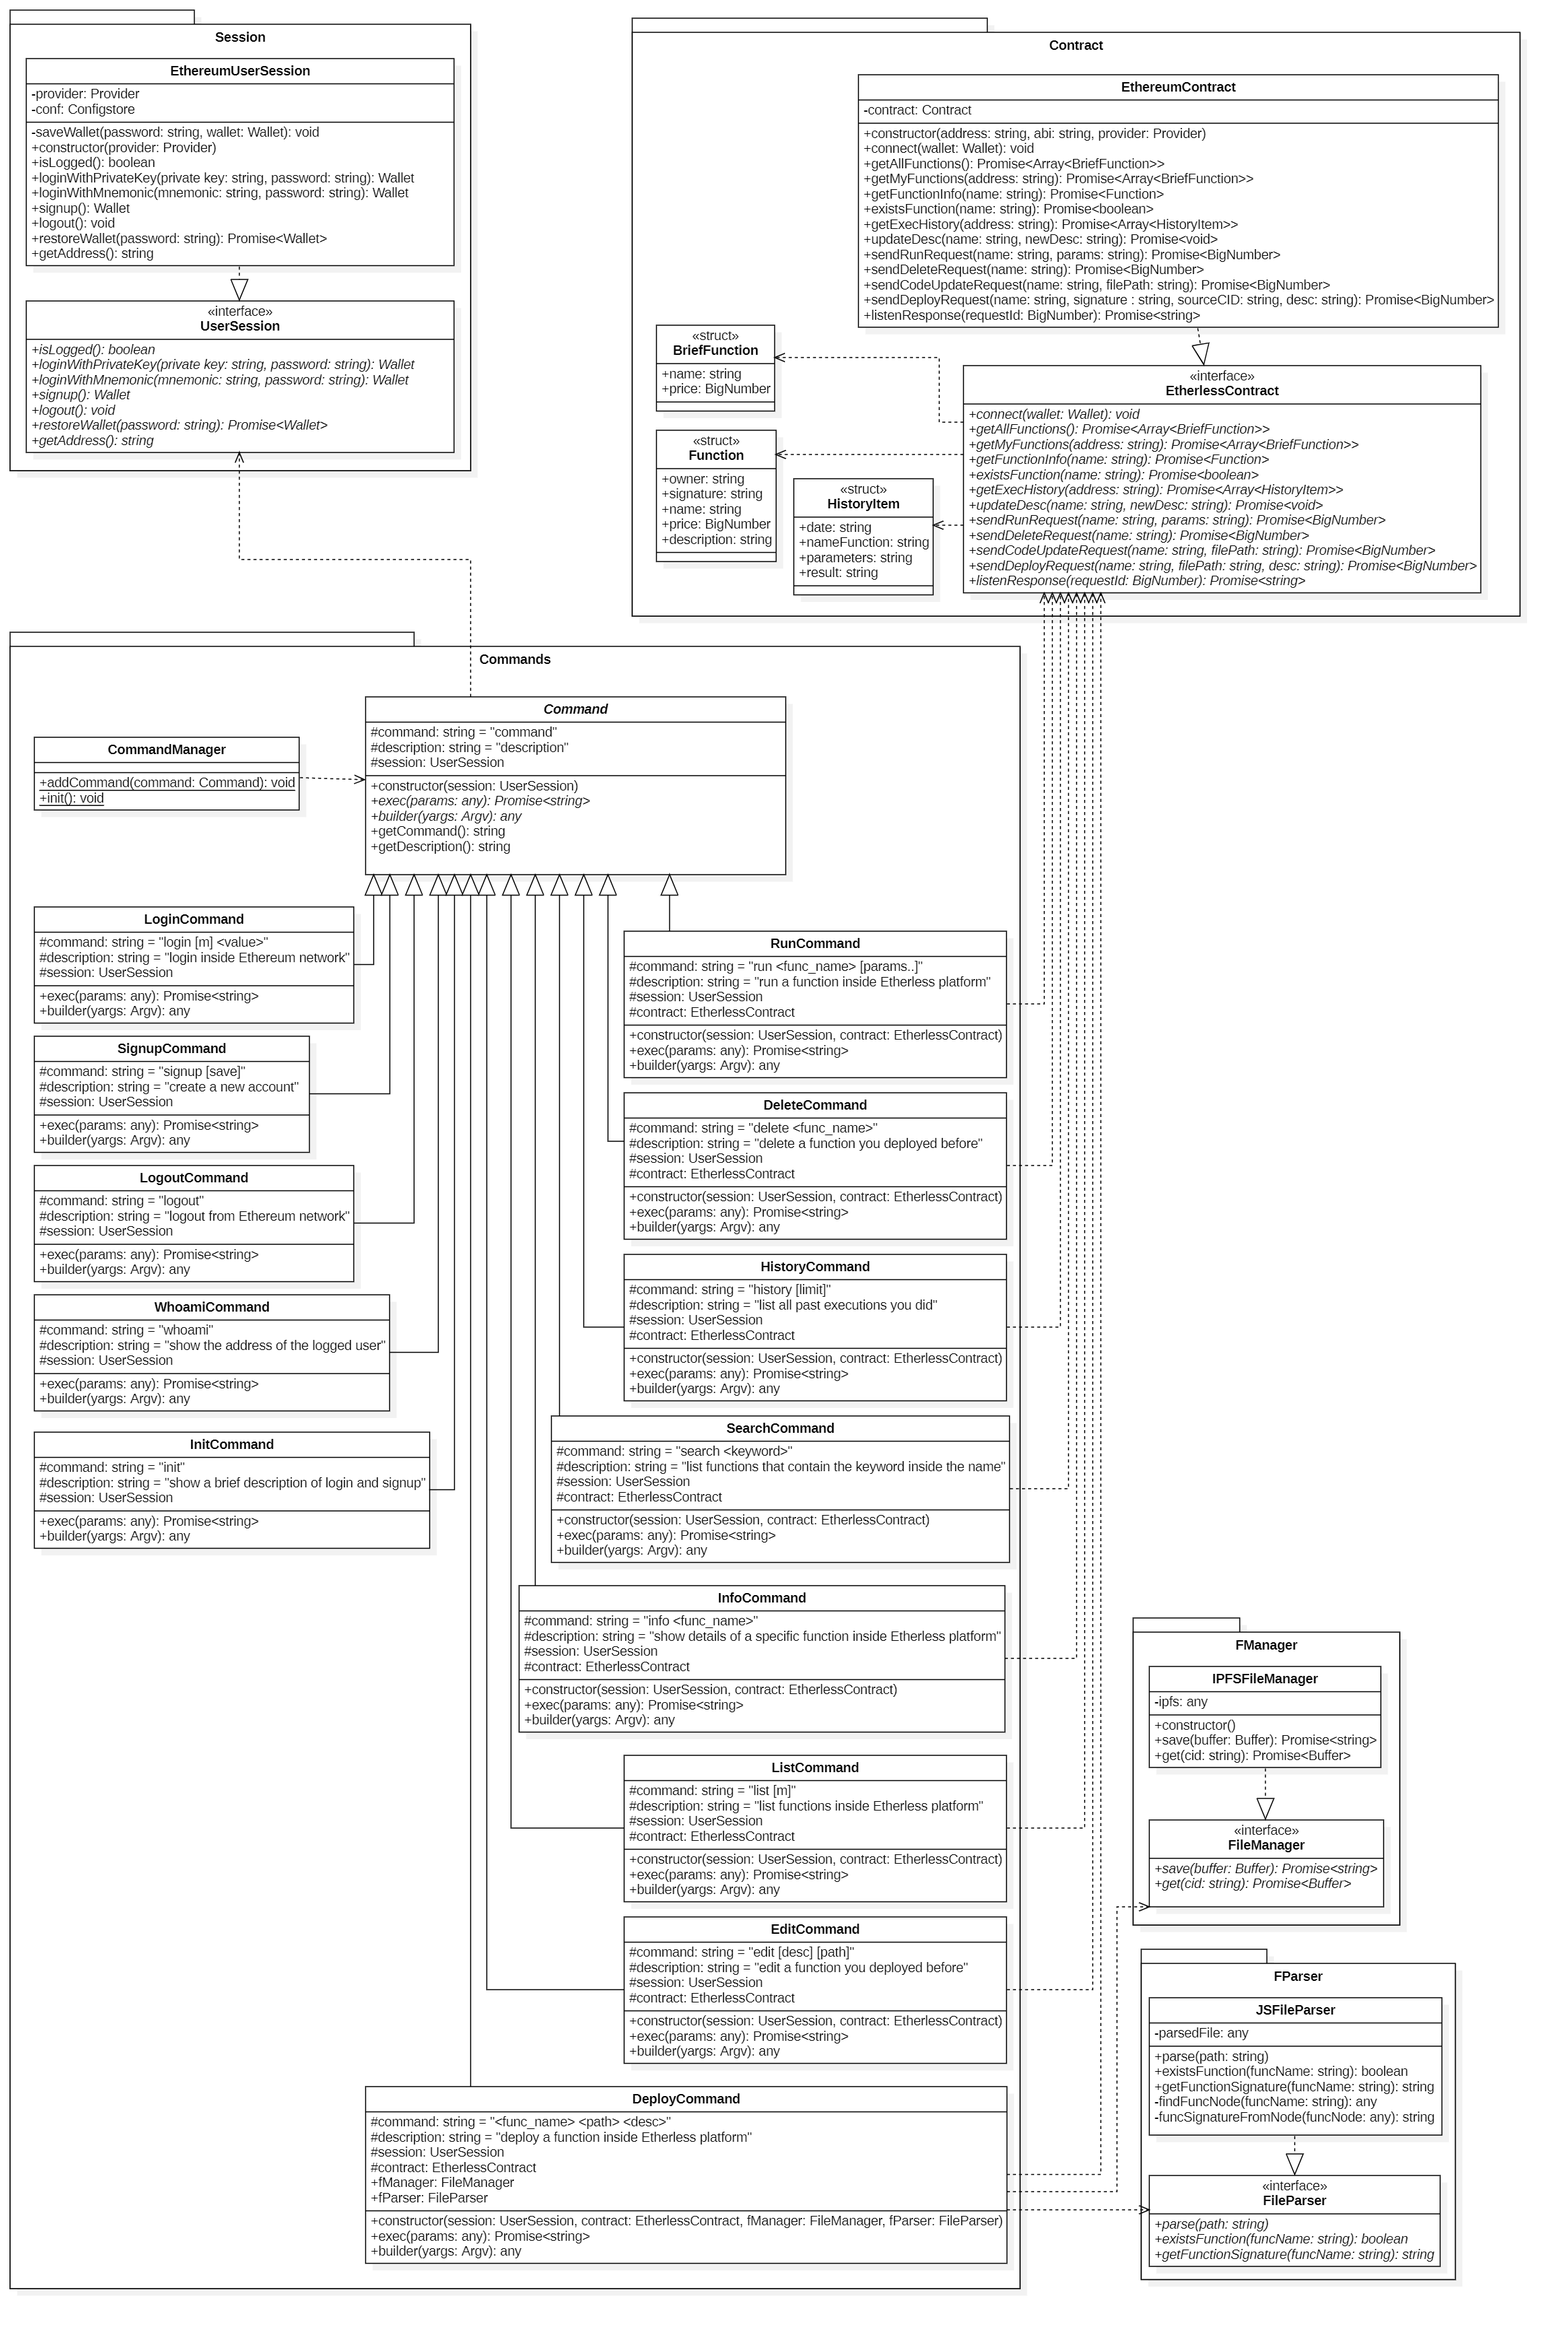
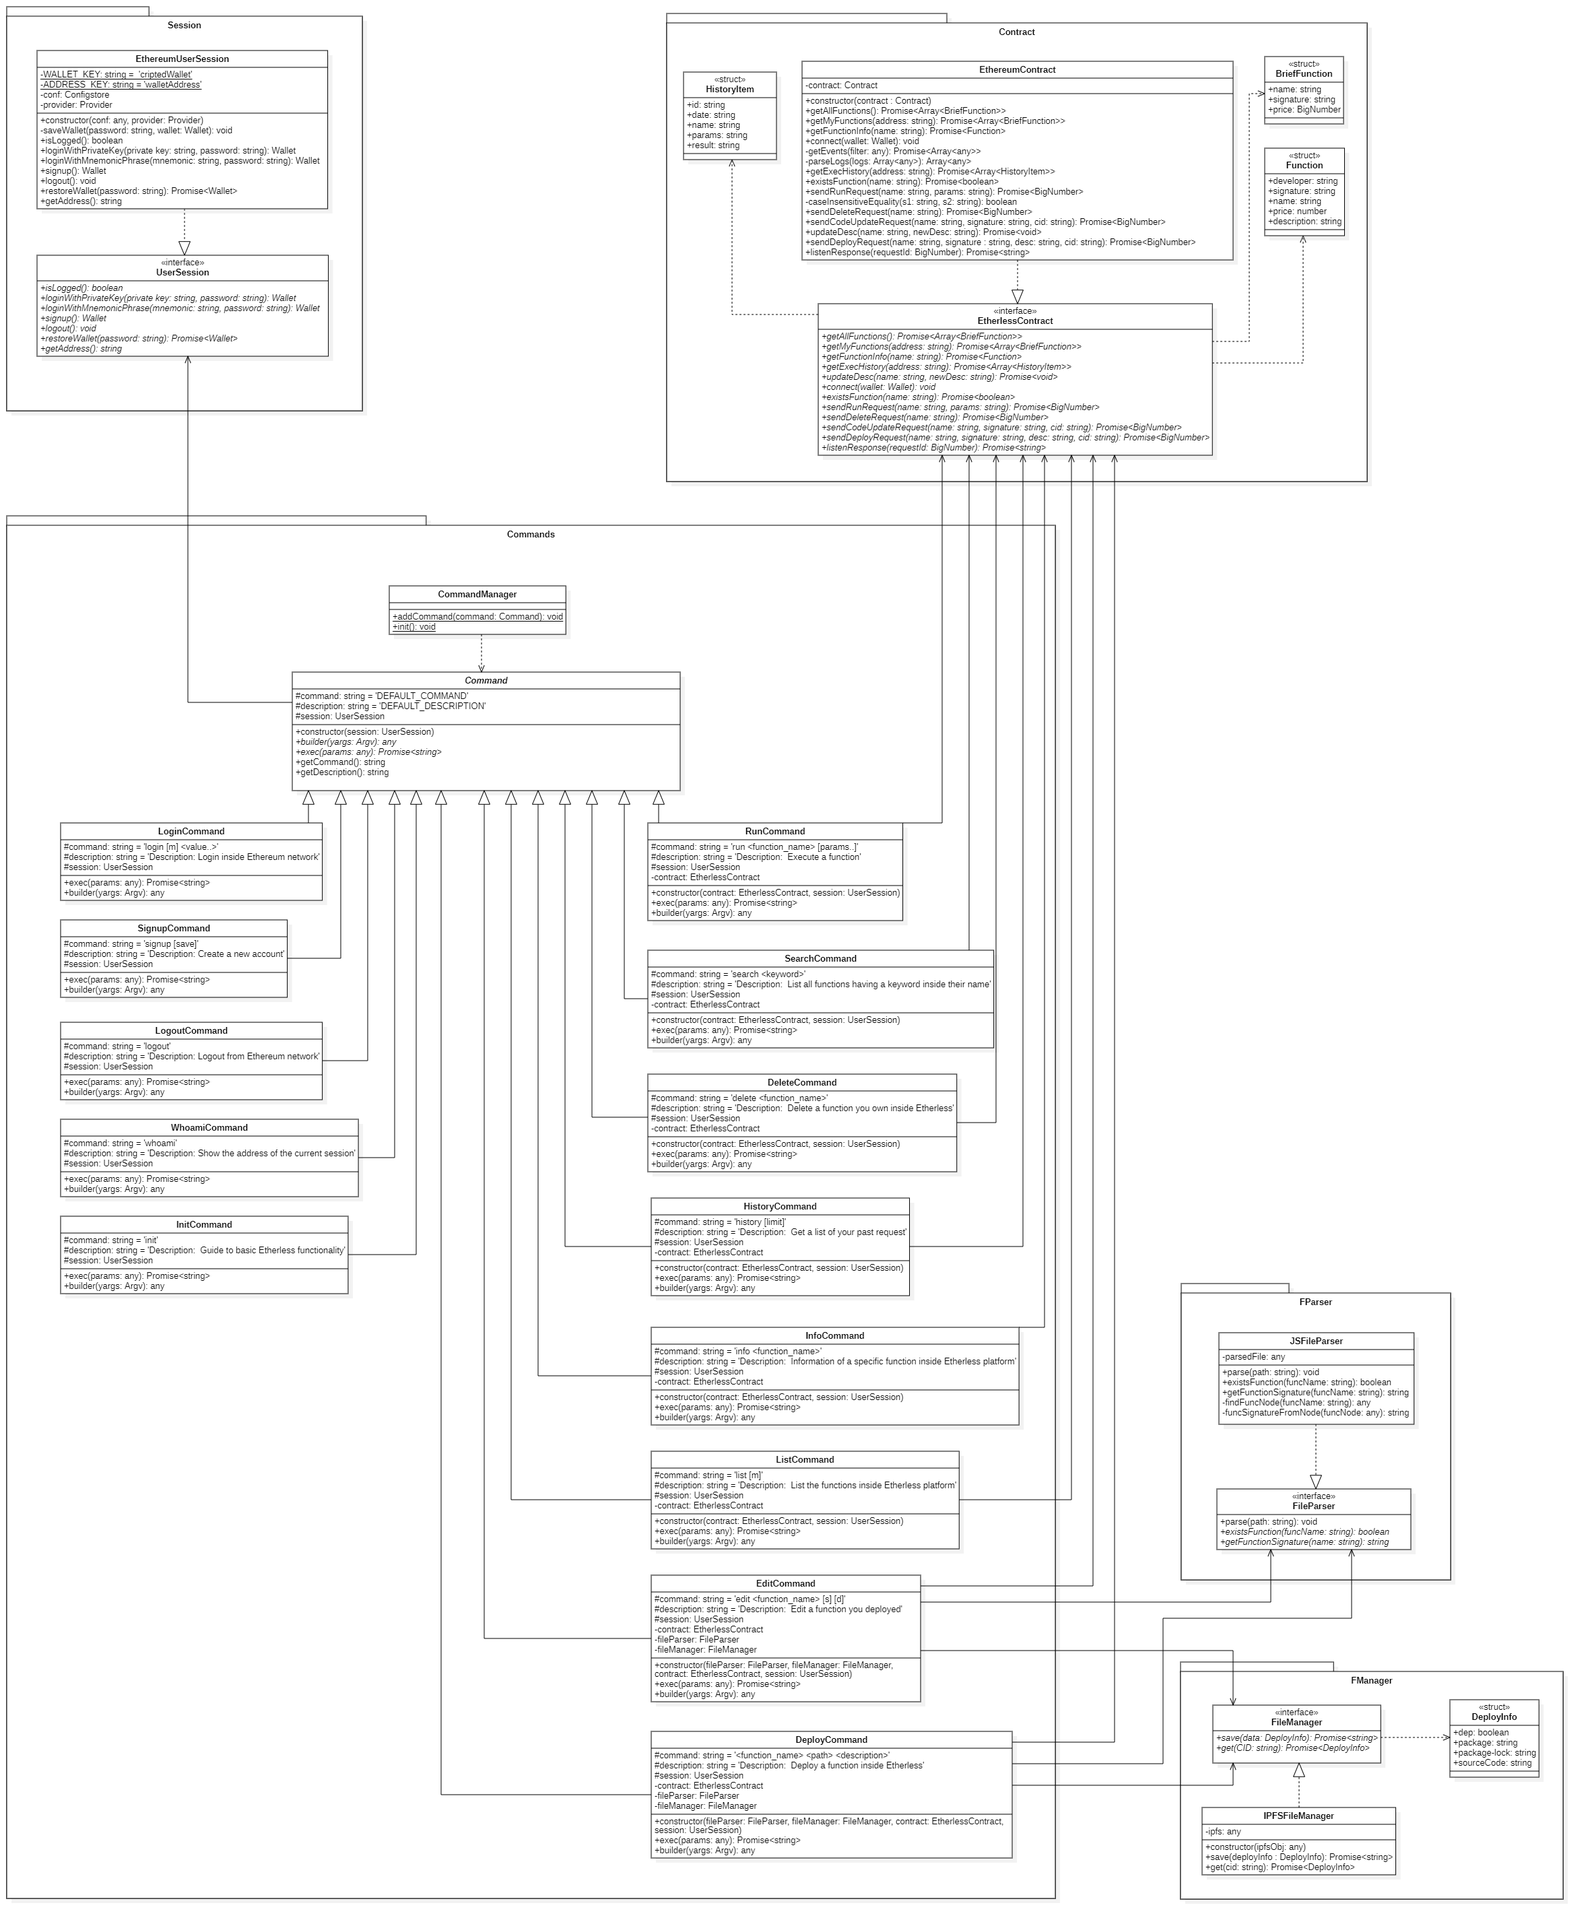
Aggiornata la parte della cli

diff --git a/Esterni/Developer_manual/res/sections/03-Cli.tex b/Esterni/Developer_manual/res/sections/03-Cli.tex
@@ -49,7 +49,8 @@
 				\item \textbf{RunCommand}: this class implements the run command, allowing the user to execute a function inside the \textit{Etherless} platform; 
 				\item \textbf{EditCommand}: this class implements the edit command, allowing the user to modify the description or the source code of an owned function; 
 				\item \textbf{SearchCommand}: this class implements the search command, allowing the user to get a list of all functions that contains the given keyword inside their name; 
-				\item \textbf{InfoCommand}: this class implements the info command, allowing the user to get details about a function; 
+				\item \textbf{InfoCommand}: this class implements the info command, allowing the user to get details about a function;
+				\item \textbf{ListCommand}: this class implements the list command, allowing the user to get a list of all functions inside Etherless platform; 
 				\item \textbf{DeleteCommand}: this class implements the delete command, allowing the user to delete an owned function; 
 				\item \textbf{HistoryCommand}: this class implements the history command, allowing the user to see his past run requests;
 				\item \textbf{DeployCommand}: this class implements the deploy command, allowing the user to deploy a function to the \textit{Etherless} platform.
@@ -195,7 +196,15 @@
 		\includegraphics[width=0.85\linewidth]{diagrammi/etherless-cli/Classi}
 		\caption{Class diagram of the Commands package.}
 	\end{figure}
-			
+
+\subsection{Cli settings}
+To modify the cli settings you have to update the .env file. In particular, if you want to change the Ethereum network used by the CLI, you have to update the NETWORK field inside the .env file. 
+If the Etherless-smart module has changed, you have to:
+\begin{itemize}
+	\item update the abi of the smart contract inside the contracts folder;
+	\item if the smart contract address has changed, the field SMART\_ADDRESS inside the .env file has to be update.
+\end{itemize}
+	
 \subsection{Extensions}  
 In order to allow for the integration of new functionalities in the system without heavy alterations of the existing architecture different design choices were implemented.
 
